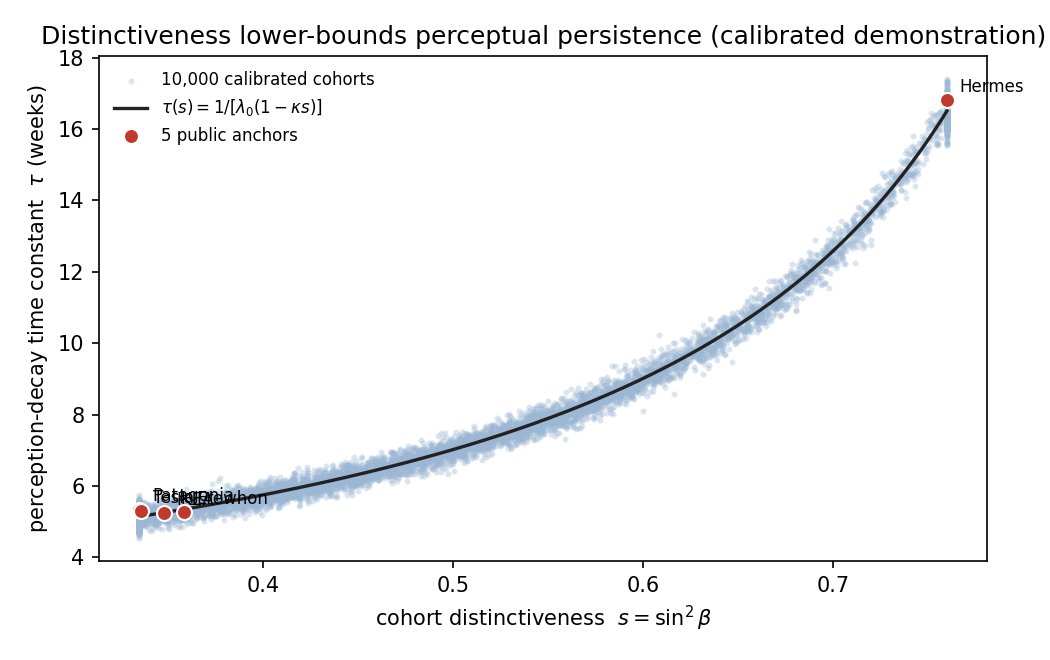
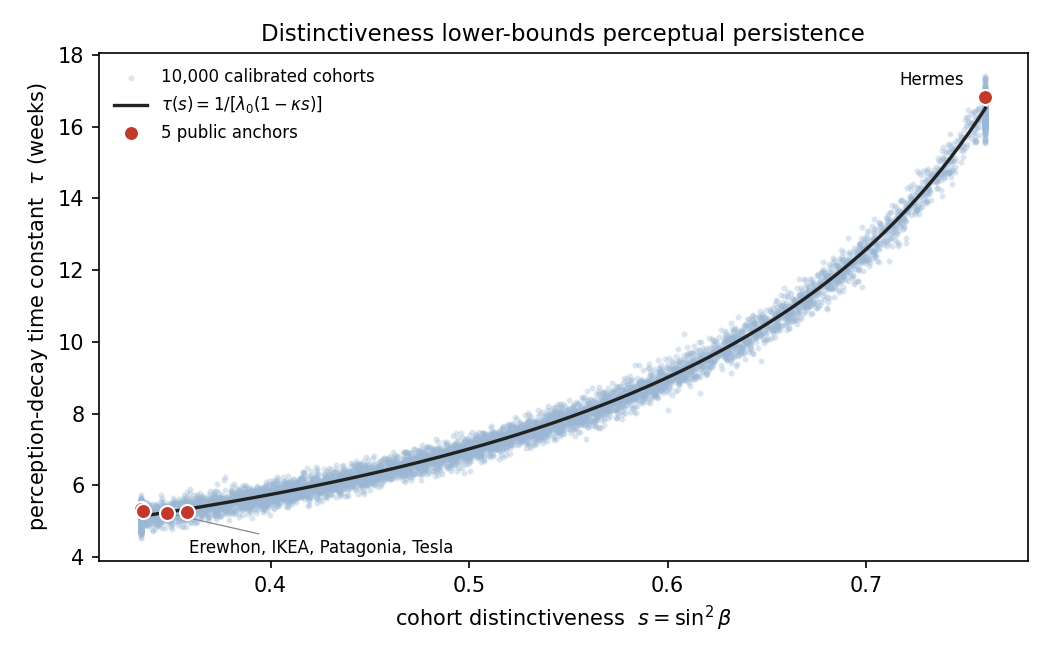
Figure caption fixes: strip stray auto-caption, clean 2026aw label overlap
reaching-a-perception + forming-a-perception: empty image alt text (no stray 'Figure 1').
forming-a-perception: regenerated figure with grouped near-generic-anchor label + leader line,
Hermes labeled individually, shorter title. Numbers unchanged.

diff --git a/forming-a-perception/code/forced_relaxation_demo.py b/forming-a-perception/code/forced_relaxation_demo.py
@@ -219,19 +219,36 @@ def main() -> None:
         edgecolor="white",
         label="5 public anchors",
     )
-    for r in rows:
+    # The four near-generic anchors are nearly coincident (s ~ .335-.358), so individual
+    # labels overlap illegibly; collapse them into one grouped label with a leader line and
+    # annotate the distinctive Hermes anchor on its own.
+    cluster = [r for r in rows if r["distinctiveness"] < 0.5]
+    distinct = [r for r in rows if r["distinctiveness"] >= 0.5]
+    if cluster:
+        cx = float(np.mean([r["distinctiveness"] for r in cluster]))
+        cy = float(np.mean([r["tau_recovered"] for r in cluster]))
+        names = ", ".join(r["brand"] for r in sorted(cluster, key=lambda r: r["brand"]))
+        ax.annotate(
+            names,
+            (cx, cy),
+            textcoords="offset points",
+            xytext=(14, -20),
+            fontsize=8,
+            ha="left",
+            arrowprops=dict(arrowstyle="-", color="#888888", lw=0.6),
+        )
+    for r in distinct:
         ax.annotate(
             r["brand"],
             (r["distinctiveness"], r["tau_recovered"]),
             textcoords="offset points",
-            xytext=(6, 4),
+            xytext=(-10, 6),
             fontsize=8,
+            ha="right",
         )
     ax.set_xlabel(r"cohort distinctiveness  $s=\sin^2\beta$")
     ax.set_ylabel(r"perception-decay time constant  $\tau$ (weeks)")
-    ax.set_title(
-        "Distinctiveness lower-bounds perceptual persistence (calibrated demonstration)"
-    )
+    ax.set_title("Distinctiveness lower-bounds perceptual persistence", fontsize=11)
     ax.legend(frameon=False, fontsize=8, loc="upper left")
     fig.tight_layout()
     fig.savefig(fig_dir / "figure1_tau_vs_distinctiveness.png", dpi=150)

diff --git a/forming-a-perception/paper.md b/forming-a-perception/paper.md
@@ -84,7 +84,7 @@ This section executes the methods-companion fallback: a calibrated simulation, n
 
 ***The recovered relaxation time and its ordering.*** Passing each cohort through a forcing pulse and recovering *τ* from the post-pulse centroid decay reproduces the ordering Proposition 3 predicts. Across the calibrated population the recovered perception-decay time constant rises monotonically with distinctiveness, with a Spearman rank correlation of .942 (bootstrap 95% confidence interval [.938, .947]); the mean recovered *τ* climbs from 5.14 weeks in the least-distinctive quartile to 11.78 weeks in the most-distinctive quartile, a 2.29-fold increase with a large standardized gap (Cohen's *d* = 3.26). The five public anchors, marked in Figure 1, span this range: the four near-generic anchors recover relaxation times near five weeks, while the most distinctive anchor recovers roughly seventeen weeks. The maintenance-budget identity shows the complementary pattern: the forcing required to hold a fixed displacement is 2.17 times larger for the least-distinctive quartile than for the most-distinctive one, because the undifferentiated brand must continuously fight a faster relaxation. These are properties of the calibrated model, not measured response magnitudes; the confirmatory recovery belongs to the panel design.
 
-![Figure 1](figures/figure1_tau_vs_distinctiveness.png)
+![](figures/figure1_tau_vs_distinctiveness.png)
 
 *Figure 1: Perception-decay time constant versus cohort distinctiveness.* The recovered relaxation time *τ* increases monotonically in distinctiveness *s* = sin²*β* across 10,000 cohorts drawn from the public-anchor-calibrated Beta(2.59, 3.47) population (light points), tracking the model curve *τ*(*s*) = 1 ⁄ [*λ*₀(1 − *κs*)] (solid); the five canonical public anchors are marked. Magnitudes are model properties under the documented constants; the robust claim is the monotone increase. Reproduced by [`code/forced_relaxation_demo.py`](https://github.com/spectralbranding/sbt-papers/blob/main/forming-a-perception/code/forced_relaxation_demo.py) at seed 20260620; the figure file is [`figures/figure1_tau_vs_distinctiveness.png`](https://github.com/spectralbranding/sbt-papers/blob/main/forming-a-perception/figures/figure1_tau_vs_distinctiveness.png).
 
@@ -131,7 +131,7 @@ One companion computation script, deterministic, dependency-light (NumPy and Mat
 
 ## Acknowledgments
 
-AI assistants (Claude Opus 4.8, Gemini 2.5 Pro, Grok 4.3) were used for initial literature search, for a pre-draft critical review of the thesis, and for software development — implementing and running the companion computation script that reproduces the paper's calibrated demonstration; all theoretical claims, propositions, and interpretations are the author's sole responsibility. The companion script is the fixed-seed forced-relaxation demonstration (`code/forced_relaxation_demo.py`).
+AI assistants (Claude Opus 4.8, Gemini 2.5 Pro, Grok 4.3) were used for initial literature search and for software development — implementing and running the companion computation script that reproduces the paper's calibrated demonstration; all theoretical claims, propositions, and interpretations are the author's sole responsibility. The companion script is the fixed-seed forced-relaxation demonstration (`code/forced_relaxation_demo.py`).
 
 CRediT contributions: Dmitry Zharnikov — conceptualization, methodology, software, formal analysis, investigation, writing (original draft), writing (review and editing).
 

diff --git a/reaching-a-perception/paper.md b/reaching-a-perception/paper.md
@@ -64,7 +64,7 @@ We make the resonance claim precise in the smallest model that carries it, and c
 
 ***The loss surface.*** The bridge choice between broadcast-a-dimension and an addressable proxy depends on two quantities: the cohort's distinctiveness sin-squared-beta, which sets how sharply self-selection separates the target, and the spill cost per non-resonant impression, which prices the broadcast route. We price spill linearly in impressions delivered to non-resonant observers; a convex spill cost only raises the relative attractiveness of routes (a) and (c), recomputing the bridge ordering without changing its form. Figure 1 plots the resulting loss surface from the calibrated model: for each distinctiveness and spill cost, it shows which bridge minimizes total loss and by how much. The broadcast route dominates in the high-distinctiveness, low-spill-cost region, the proxy route dominates in the low-distinctiveness, high-spill-cost region, and a frontier separates them. The companion computation script ([`code/broadcast_channel_loss_surface.py`](https://github.com/spectralbranding/sbt-papers/blob/main/reaching-a-perception/code/broadcast_channel_loss_surface.py)) reproduces the surface from a fixed seed.
 
-![Figure 1](figures/figure1_loss_surface.png)
+![](figures/figure1_loss_surface.png)
 
 *Figure 1: Total-loss surface over cohort distinctiveness (sin-squared-beta) and per-impression spill cost.* The shaded frontier marks where the broadcast-a-dimension bridge and the minimal-loss-proxy bridge incur equal total loss; the broadcast bridge dominates above and to the left, where the cohort is distinct and spill is cheap. Calibrated to the distinctiveness distribution of an atom-based perception corpus; reproduced by [`code/broadcast_channel_loss_surface.py`](https://github.com/spectralbranding/sbt-papers/blob/main/reaching-a-perception/code/broadcast_channel_loss_surface.py). The figure file is [`figures/figure1_loss_surface.png`](https://github.com/spectralbranding/sbt-papers/blob/main/reaching-a-perception/figures/figure1_loss_surface.png).
 